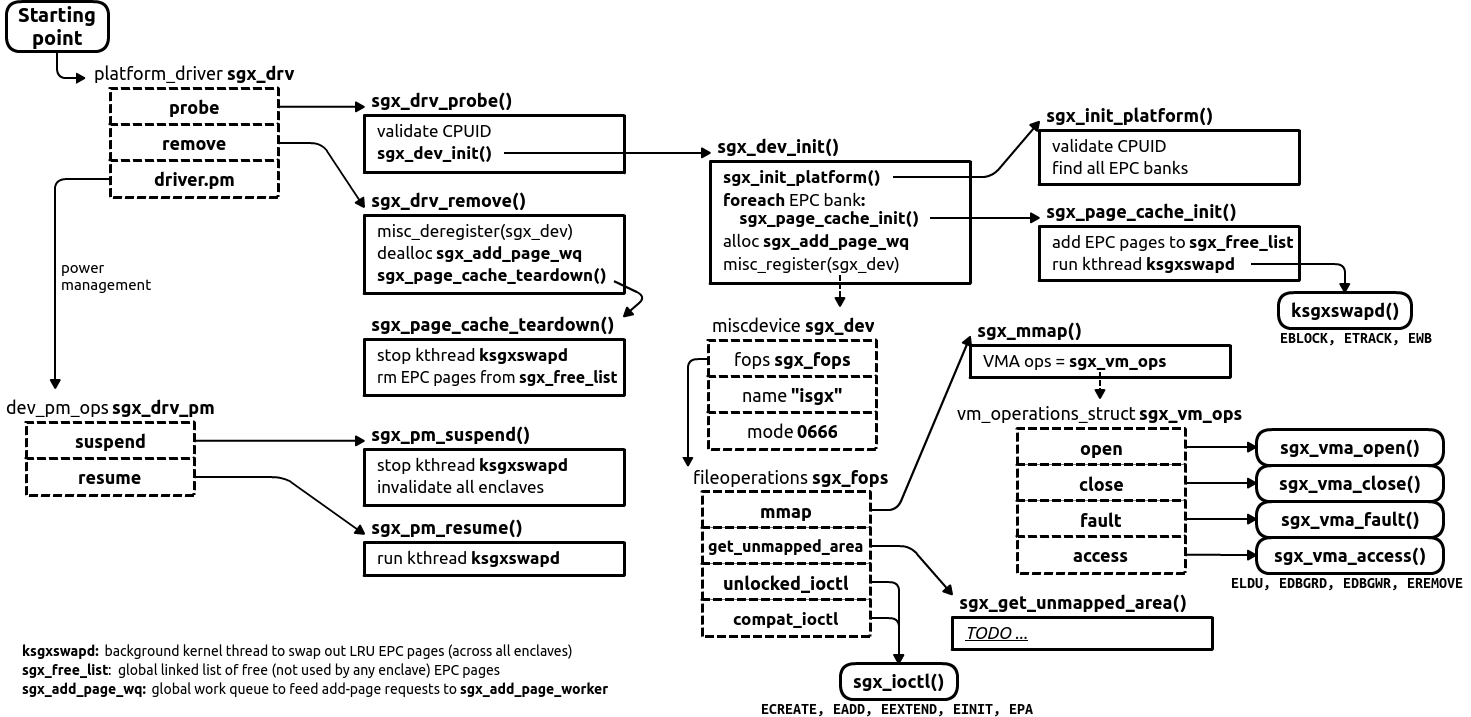
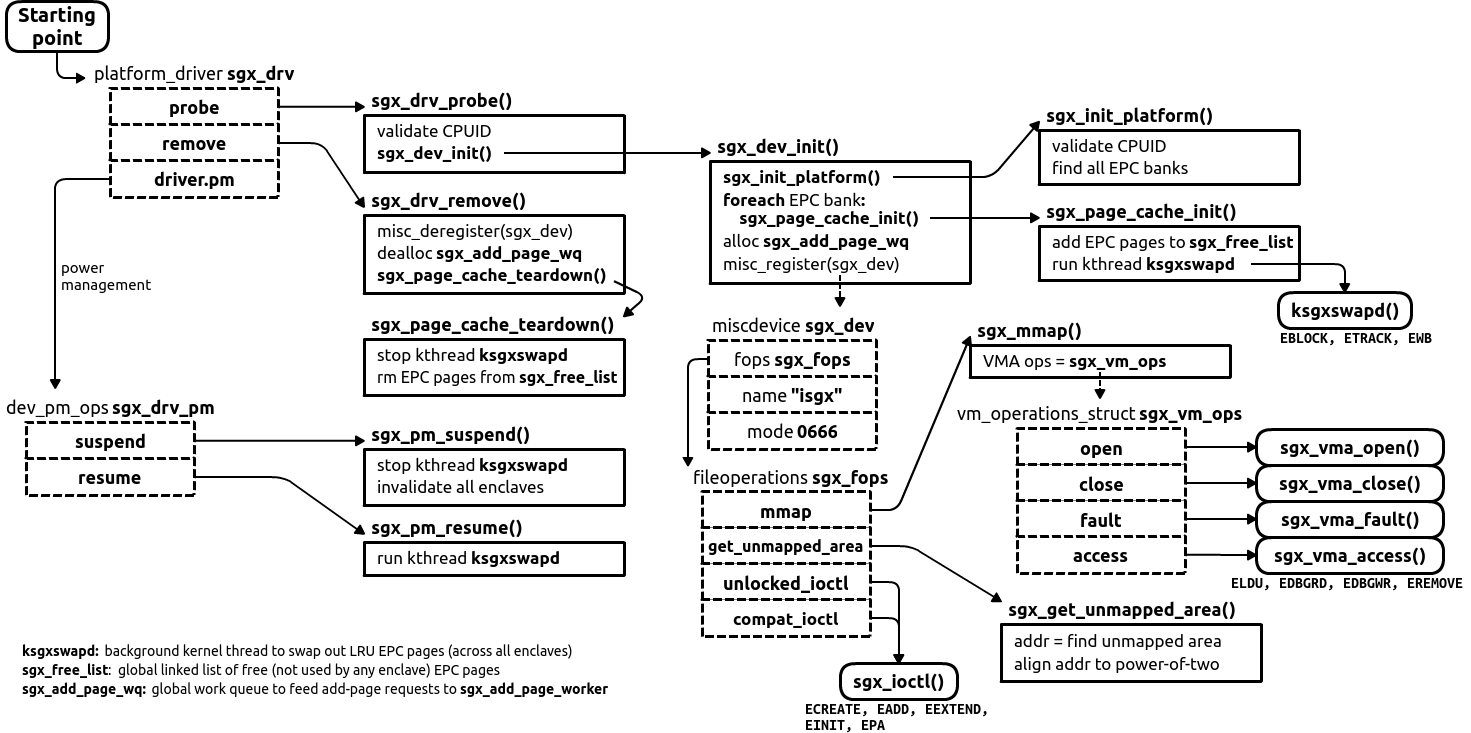
documented sgx_get_unmapped_area; better documentation on sgx_vma_open/sgx_vma_close

diff --git a/sgx_main.c b/sgx_main.c
@@ -119,13 +119,14 @@ static int sgx_mmap(struct file *file, struct vm_area_struct *vma)
 	return 0;
 }
 
-/* handler for get_unmapped_area ??? */
+/* handler for get_unmapped_area: finds correct addr to start ELRANGE */
 static unsigned long sgx_get_unmapped_area(struct file *file,
 					   unsigned long addr,
 					   unsigned long len,
 					   unsigned long pgoff,
 					   unsigned long flags)
 {
+	/* enclave size must be at least 2 pages and a power-of-two */
 	if (len < 2 * PAGE_SIZE || (len & (len - 1)))
 		return -EINVAL;
 
@@ -146,13 +147,17 @@ static unsigned long sgx_get_unmapped_area(struct file *file,
 		return -EINVAL;
 #endif
 
+	/* find base address of unmapped area twice bigger as requested
+	   (twice biffer because we must also align address on power-of-two) */
 	addr = current->mm->get_unmapped_area(file, addr, 2 * len, pgoff,
 					      flags);
 	if (IS_ERR_VALUE(addr))
 		return addr;
 
+	/* align base address to power-of-two; guaranteed to have unmapped area */
 	addr = (addr + (len - 1)) & ~(len - 1);
 
+	/* aligned addr will be ELRANGE base address */
 	return addr;
 }
 
@@ -308,7 +313,8 @@ static int sgx_dev_init(struct device *dev)
 			goto out_iounmap;
 		}
 #endif
-		/* sgx_page_cache_init() calls kthread_run() -- doesn't it create many background threads ??? */
+		/* BUG: sgx_page_cache_init() calls kthread_run() and thus creates
+		 *      many background threads ??? */
 		ret = sgx_page_cache_init(sgx_epc_banks[i].start,
 			sgx_epc_banks[i].end - sgx_epc_banks[i].start);
 		if (ret) {

diff --git a/sgx.h b/sgx.h
@@ -112,7 +112,7 @@ static inline void sgx_free_va_slot(struct sgx_va_page *page,
 /* Metadata flags for enclave pages: is it TCS page? is it reserved? */
 enum sgx_encl_page_flags {
 	SGX_ENCL_PAGE_TCS	= BIT(0),
-	SGX_ENCL_PAGE_RESERVED	= BIT(1),  /* used for debug, what exactly it does ??? */
+	SGX_ENCL_PAGE_RESERVED	= BIT(1),  /* used for debug */
 };
 
 /**

diff --git a/sgx_vma.c b/sgx_vma.c
@@ -96,6 +96,7 @@ static void sgx_vma_close(struct vm_area_struct *vma)
 	zap_vma_ptes(vma, vma->vm_start, vma->vm_end - vma->vm_start);
 	encl->flags |= SGX_ENCL_DEAD;
 	mutex_unlock(&encl->lock);
+	/* actually release enclave if not used by any process */
 	kref_put(&encl->refcount, sgx_encl_release);
 }
 

diff --git a/documentation/init.md b/documentation/init.md
@@ -28,6 +28,12 @@ This allows for a quick exit from add-page, swapping, etc. routines.
 The enclave's resources, however, are actually released (all enclave pages removed from the kernel space and EPC) when the enclave's VMA closes (`sgx_vma_close`).
 **TODO:** Still unclear why this is needed if the enclave is released only later.
 
+Note that `sgx_dev` also registers a callback to `get_unmapped_area()`.
+This callback is invoked during `mmap()` to allocate ELRANGE for a new enclave.
+ELRANGE base address must be a power-of-two but the Linux kernel assigns some arbitrary address by default.
+To prevent this, the `sgx_get_unmapped_area()` actually finds a sufficiently large unmapped area, aligns the address to be power-of-two, and returns it to the kernel.
+This way, the allocated memory region is guaranteed to start at a power-of-two base address.
+
 
 ## PRM and EPC Banks
 
@@ -79,11 +85,12 @@ Note that invalidated enclaves still consume memory: their EPC pages are not rem
 
 # Bugs/issues
 
-* **TODO**: Still not sure why `sgx_get_unmapped_area()` is needed.
-
 * `sgx_drv_probe()` and `sgx_init_platform()` both perform the same CPUID validation steps. One of these functions thus seems redundant.
+    - **known issue**
 
-* There is probably a bug in `sgx_dev_init()`:
+* There is a bug in `sgx_dev_init()`:
     - `sgx_page_cache_init()` is called as many times as there are EPC banks
     - but `sgx_page_cache_init()` creates a background thread `ksgxswapd_tsk = kthread_run(ksgxswapd, NULL, "ksgxswapd")` each time it is called
     - thus, there will be several background threads created if there are several EPC banks; only the last one will be known to the driver via global variable `ksgxswapd_tsk`
+    - **known issue**
+

diff --git a/documentation/paging.md b/documentation/paging.md
@@ -9,8 +9,8 @@ Linux documentation on paging:
 ![sgx-driver-paging](figs/sgx-driver-paging.png "Memory Operations in SGX and Paging")
 
 Memory operations in SGX include:
-* `open` -- when a process (host app) forks, the driver invokes `sgx_vma_open()` (**TODO: what does it do?**)
-* `close` -- when a process (host app) terminates, the driver invokes `sgx_vma_close()` to release the enclave
+* `open` -- when a process (host app) forks, the driver invokes `sgx_vma_open()` to bump the number of processes that use this enclave
+* `close` -- when a process (host app) terminates, the driver invokes `sgx_vma_close()` to decrease the number of processes that use this enclave, and if there are no processes left, to release the enclave
 * `fault` -- when a page fault occurs, the driver invokes its custom page fault handler `sgx_vma_fault()` to load-back the evicted EPC page
 * `access` -- when ptrace/gdb issues a debug memory access, the driver invokes `sgx_vma_access()` to perform `EDBGRD` or `EDBGWR`
 
